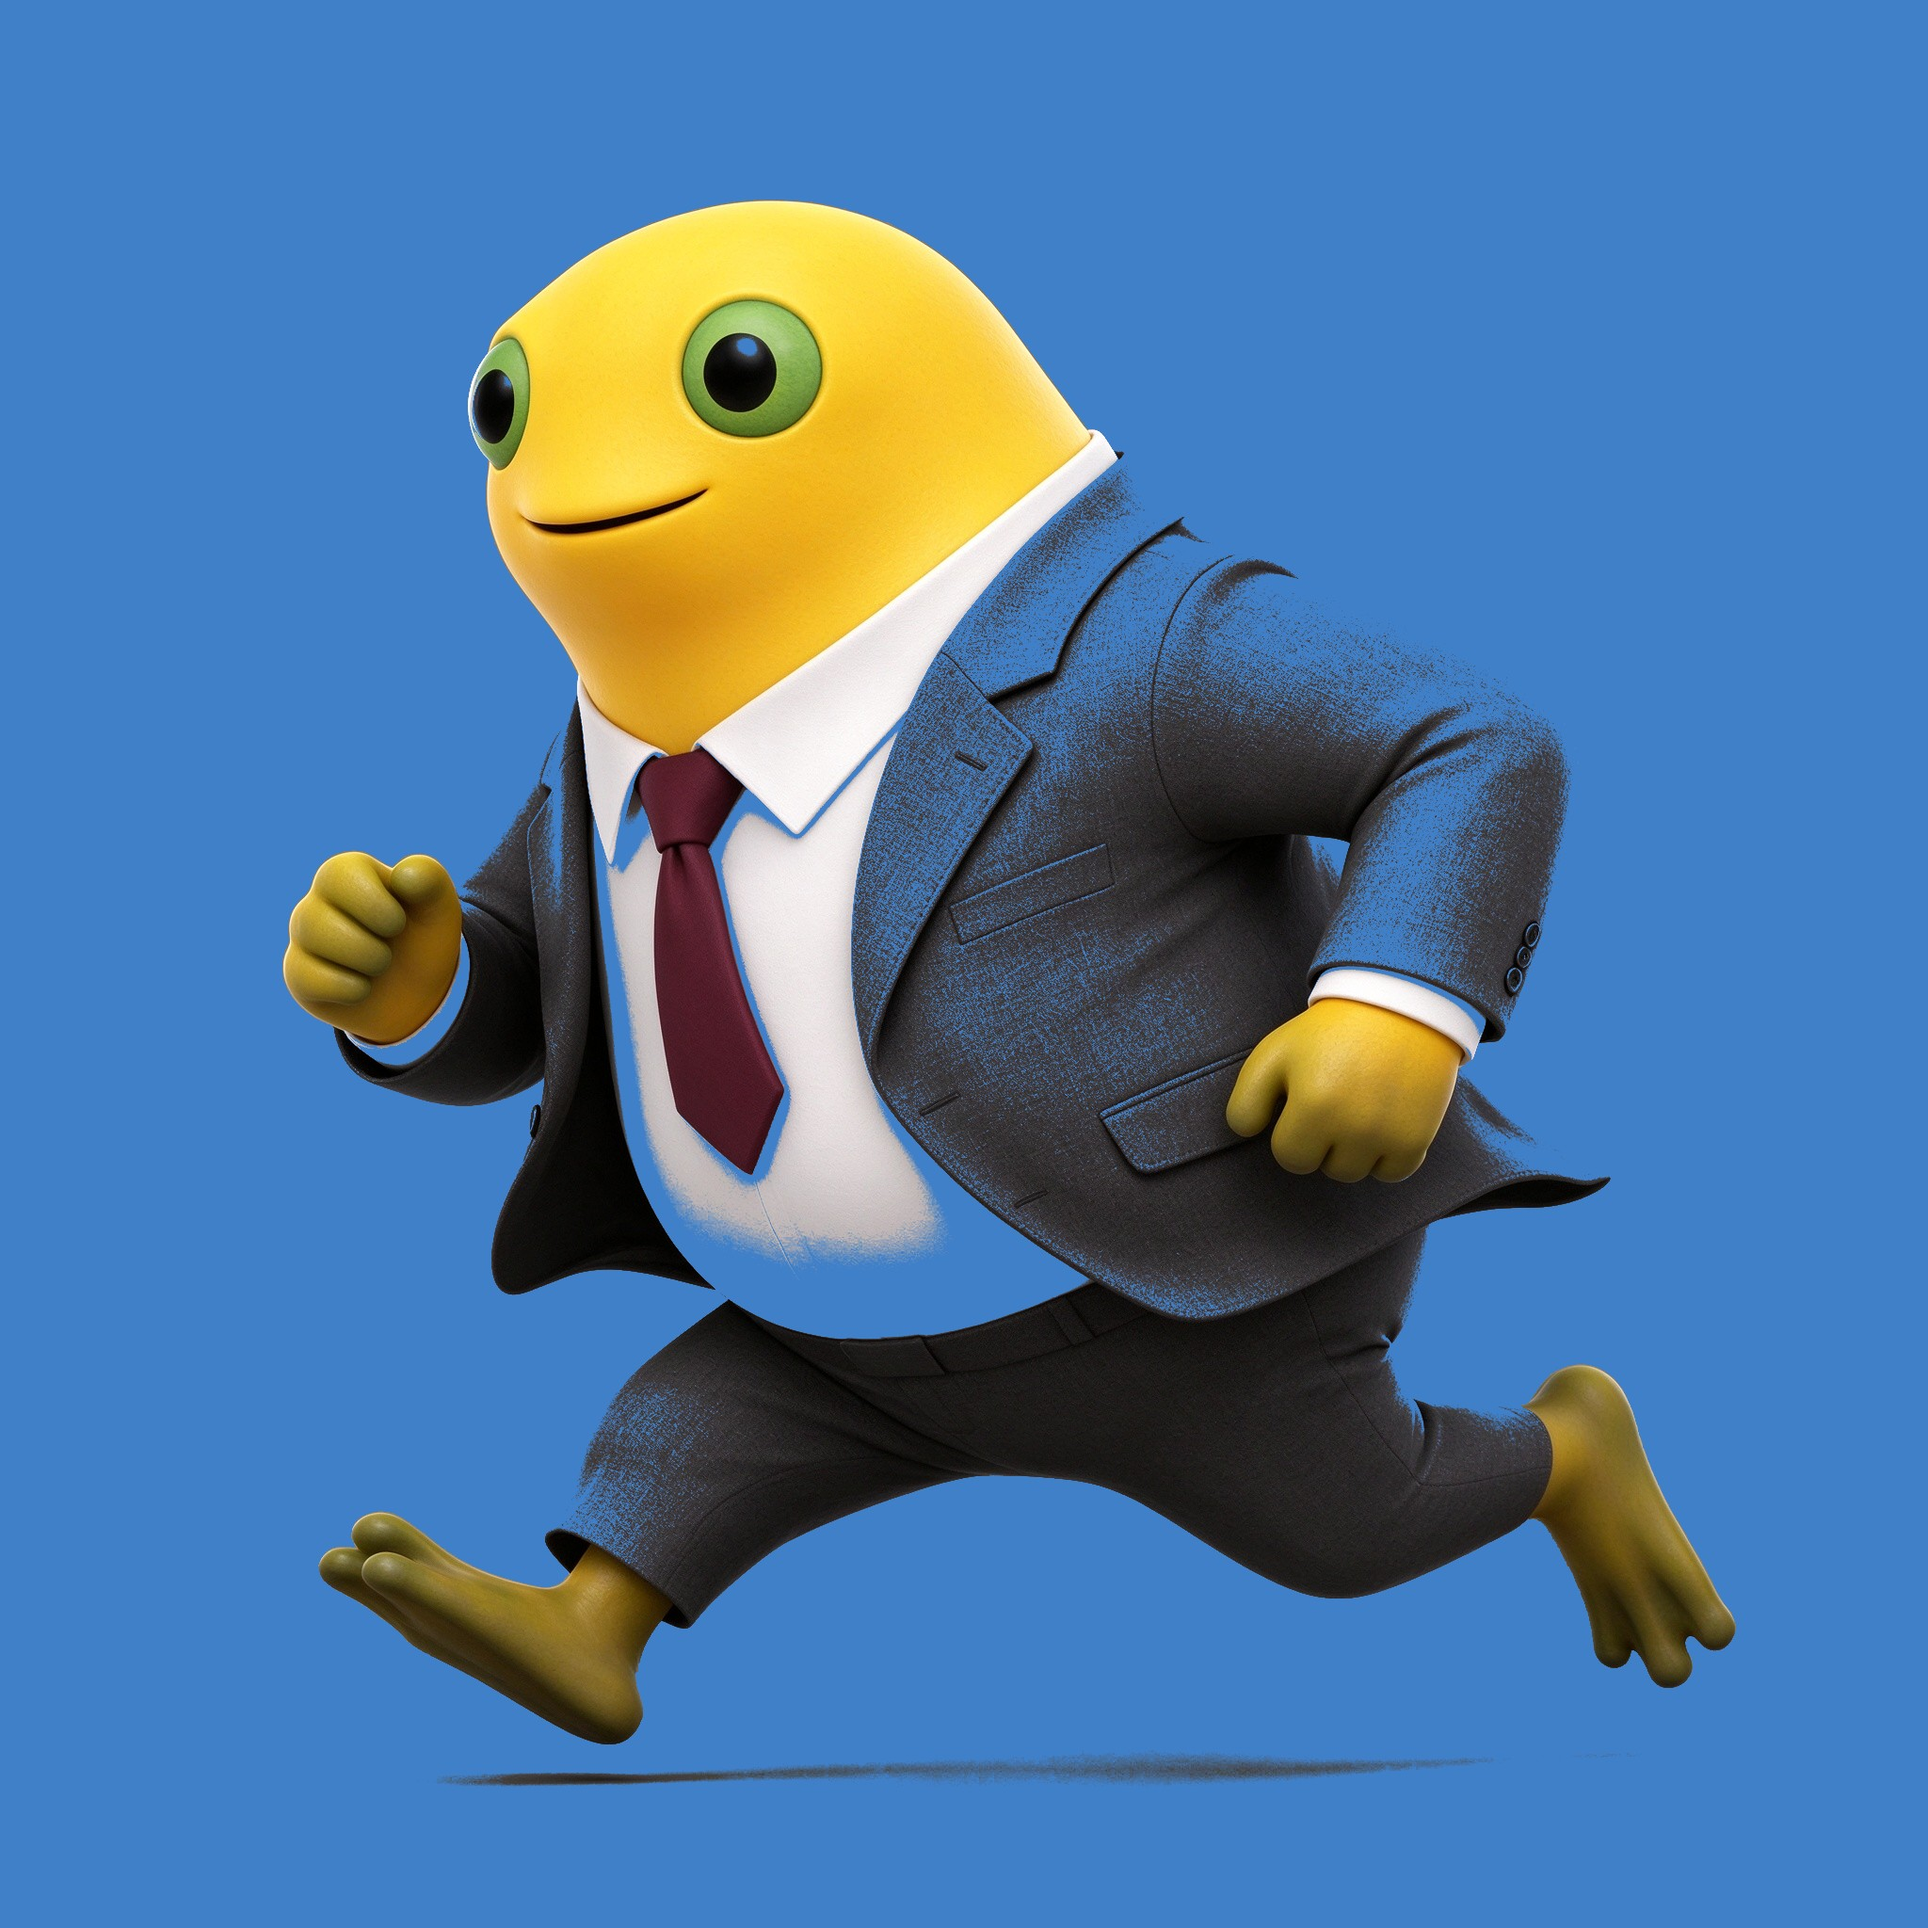
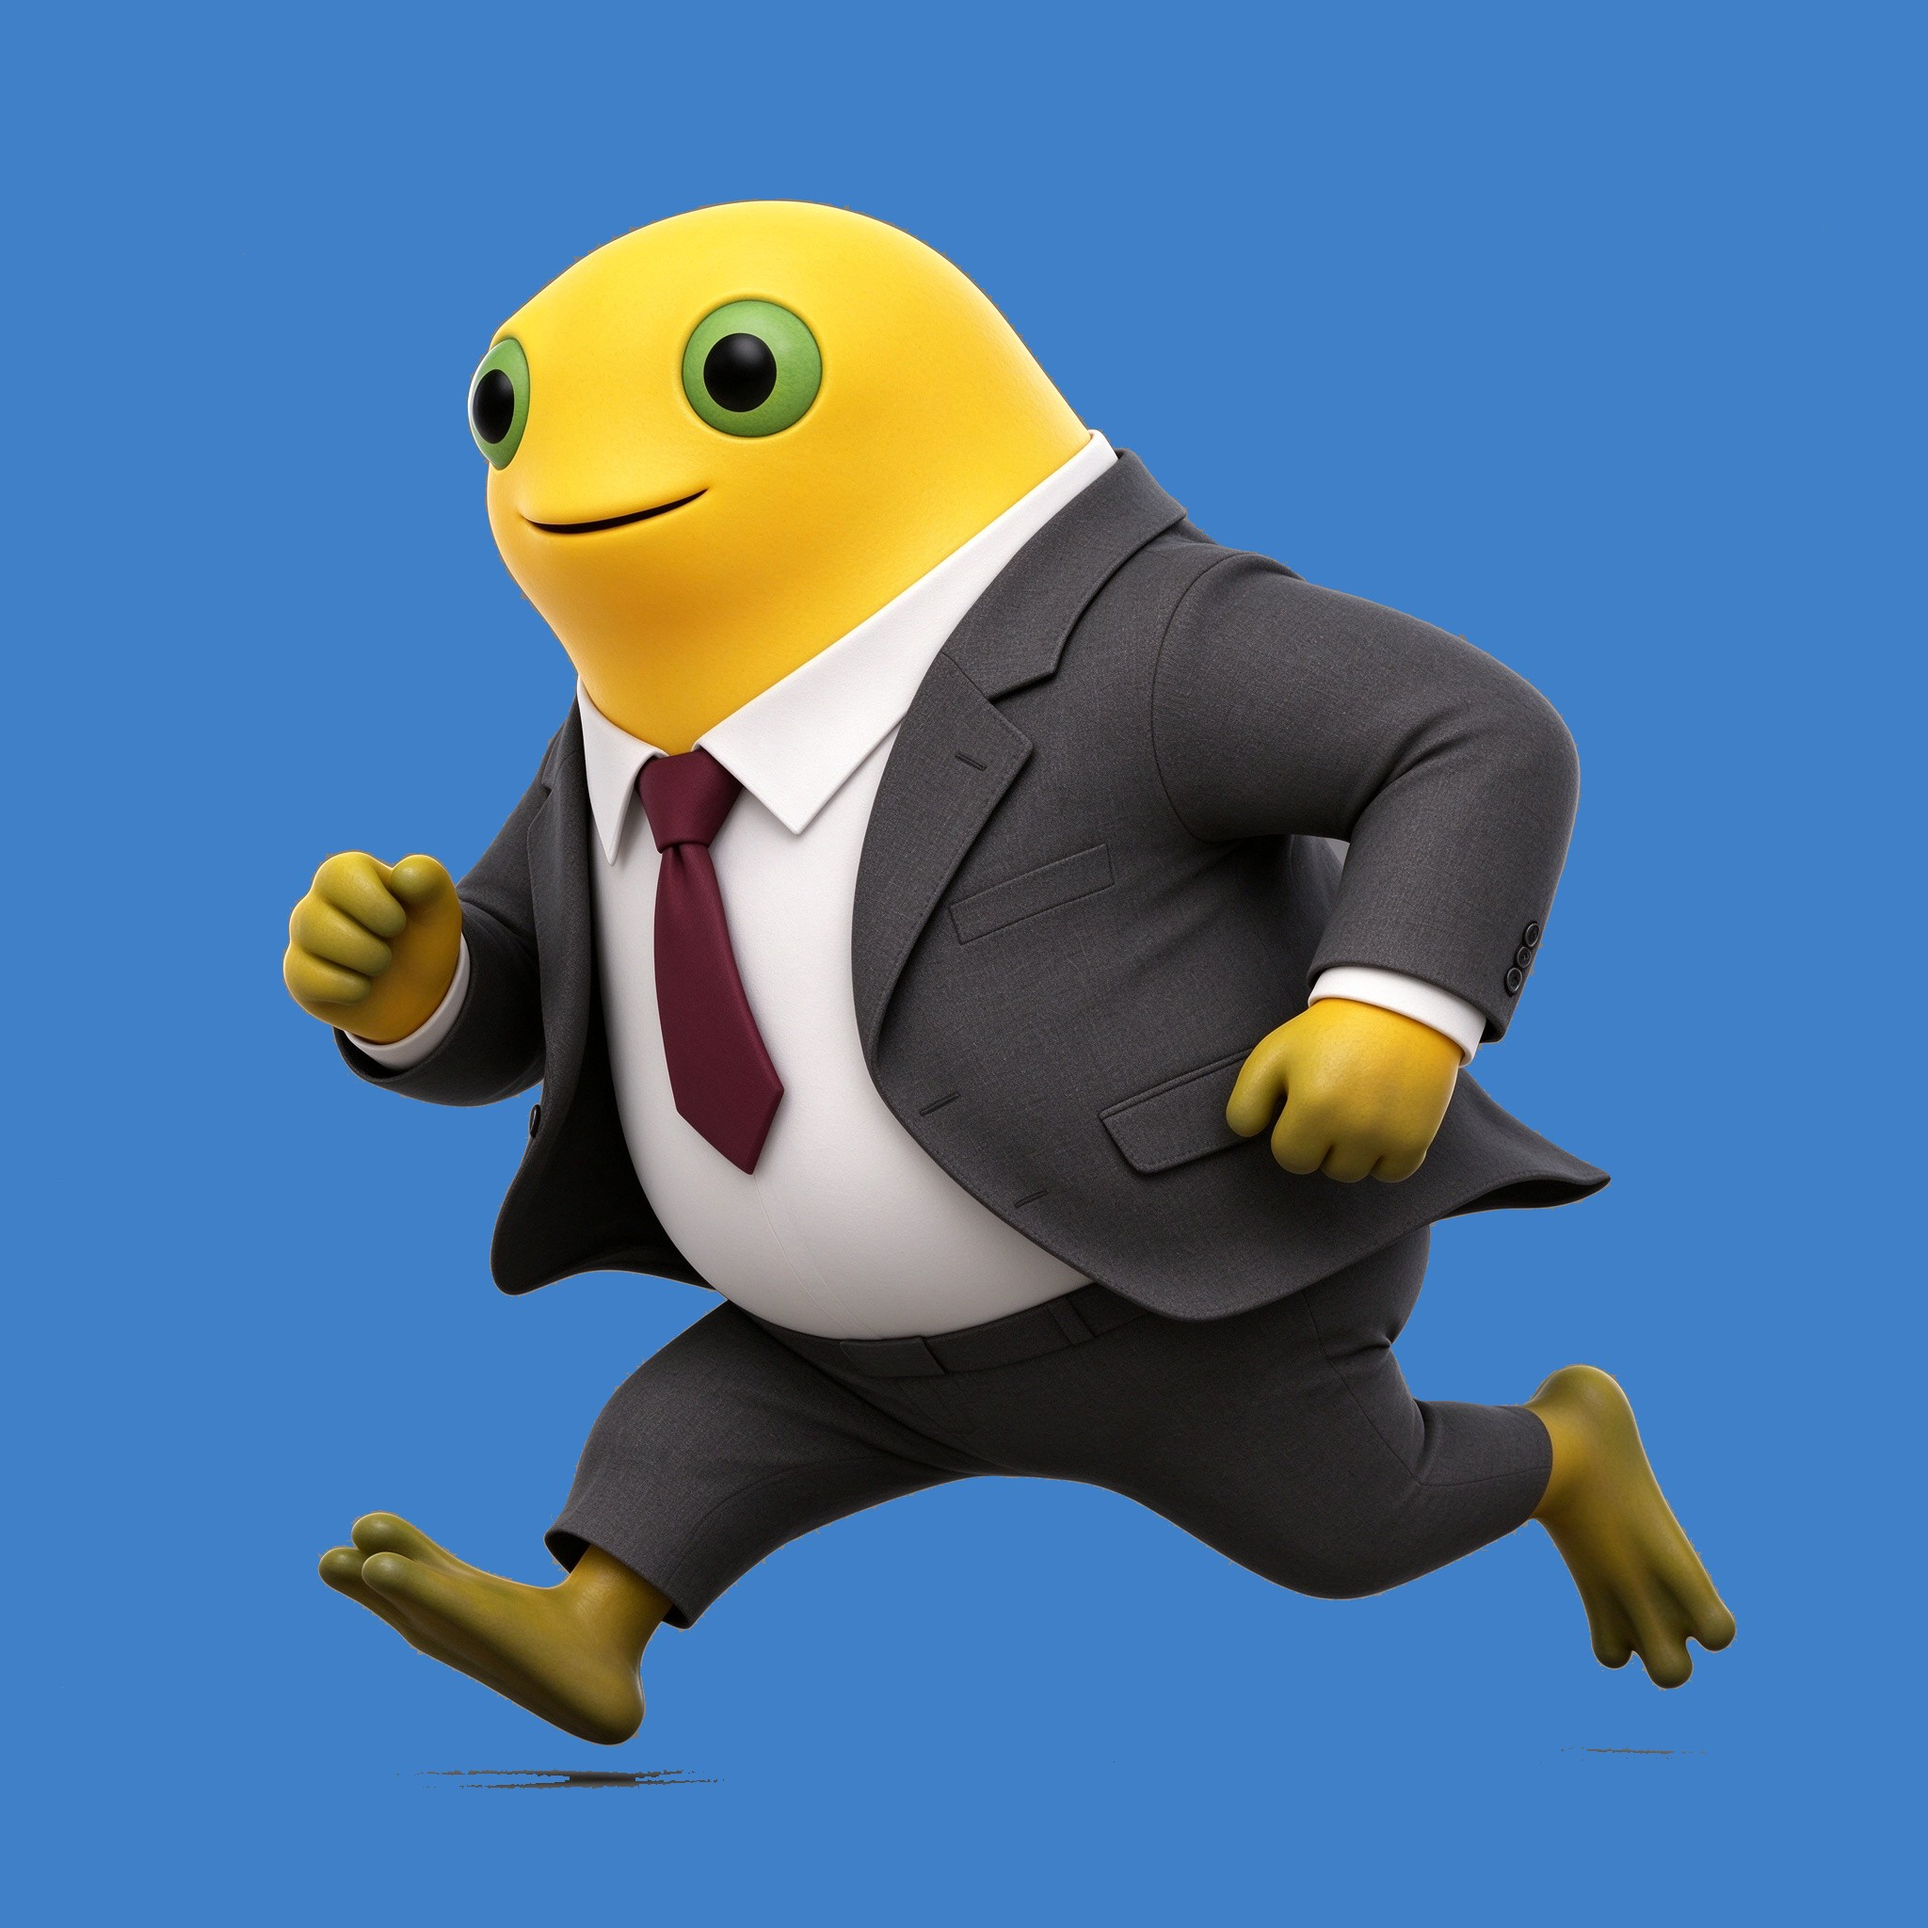
fix: 开机自启动时正常显示桌宠；重抠奶蛙贴图修复西装泛白噪点

diff --git a/pet/main.js b/pet/main.js
@@ -165,7 +165,8 @@ function shouldStartHidden() {
   if (process.platform === 'darwin') {
     return Boolean(app.getLoginItemSettings().wasOpenedAsHidden);
   }
-  return process.argv.includes(STARTUP_FLAG);
+  // Windows：开机自启动也要正常显示桌宠（用户反馈开机后桌面上看不到奶蛙）
+  return false;
 }
 
 function getWindowDisplay(targetWindow) {

diff --git a/.creative-design/frog-mascot/graykey3.py b/.creative-design/frog-mascot/graykey3.py
@@ -1,0 +1,105 @@
+"""中灰版 v3：平滑中性色 + 边缘连通 判定
+- 候选背景：三通道接近中性（差<25）且 3x3 邻域亮度极差<8（无纹理平滑区）
+- 从图像四边 flood fill，只有连通的候选才清除（阴影平滑渐变会被清，西装布纹有纹理不受影响）
+- 与背景相邻的非候选中性像素一并清除，边缘硬切 1-2px，避免灰边光晕
+"""
+from PIL import Image
+from collections import deque
+from pathlib import Path
+
+base = Path(r"C:\Users\19421\Doubao\chats\2026-11-03\new-chat\code-pet\pet\assets")
+src_dir = Path(r"C:\Users\19421\Doubao\chats\2026-11-03\new-chat\code-pet\.creative-design\frog-mascot\source")
+out = Path(r"C:\Users\19421\Doubao\chats\2026-11-03\new-chat\code-pet\.creative-design\frog-mascot")
+
+
+def smooth_gray_key(path: Path, diag: str = ""):
+    im = Image.open(path).convert("RGBA")
+    w, h = im.size
+    px = im.load()
+
+    # 预计算: 中性 / 平滑
+    neutral = [[False] * w for _ in range(h)]
+    smooth = [[False] * w for _ in range(h)]
+    for y in range(h):
+        for x in range(w):
+            r, g, b, a = px[x, y]
+            neutral[y][x] = abs(r - g) < 25 and abs(g - b) < 25 and abs(r - b) < 25
+
+    for y in range(h):
+        for x in range(w):
+            if not neutral[y][x]:
+                continue
+            lo, hi = 255, 0
+            found = False
+            for ny in (y - 1, y, y + 1):
+                for nx in (x - 1, x, x + 1):
+                    if 0 <= nx < w and 0 <= ny < h:
+                        L = max(px[nx, ny][:3])
+                        lo = min(lo, L)
+                        hi = max(hi, L)
+                        found = True
+            if found and hi - lo < 8:
+                smooth[y][x] = True
+
+    cand = [[neutral[y][x] and smooth[y][x] for x in range(w)] for y in range(h)]
+
+    bg = [[False] * w for _ in range(h)]
+    dq = deque()
+    for x in range(w):
+        for y in (0, h - 1):
+            if cand[y][x] and not bg[y][x]:
+                bg[y][x] = True
+                dq.append((x, y))
+    for y in range(h):
+        for x in (0, w - 1):
+            if cand[y][x] and not bg[y][x]:
+                bg[y][x] = True
+                dq.append((x, y))
+    while dq:
+        x, y = dq.popleft()
+        for nx in (x - 1, x, x + 1):
+            for ny in (y - 1, y, y + 1):
+                if 0 <= nx < w and 0 <= ny < h and cand[ny][nx] and not bg[ny][nx]:
+                    bg[ny][nx] = True
+                    dq.append((nx, ny))
+
+    # 与背景相邻的非候选中性像素（灰边光晕）一并清除
+    edge_clear = [[False] * w for _ in range(h)]
+    for y in range(h):
+        for x in range(w):
+            if bg[y][x] or not neutral[y][x]:
+                continue
+            for nx in (x - 1, x, x + 1):
+                for ny in (y - 1, y, y + 1):
+                    if 0 <= nx < w and 0 <= ny < h and bg[ny][nx]:
+                        edge_clear[y][x] = True
+                        break
+                if edge_clear[y][x]:
+                    break
+
+    cleared = 0
+    for y in range(h):
+        for x in range(w):
+            r, g, b, a = px[x, y]
+            if bg[y][x] or edge_clear[y][x]:
+                px[x, y] = (r, g, b, 0)
+                cleared += 1
+            elif cand[y][x]:
+                px[x, y] = (r, g, b, 255)
+
+    if diag:
+        print(diag, "清理背景+灰边:", cleared, "占比:", round(cleared / (w * h) * 100, 1), "%")
+    return im
+
+
+for src_name, dst in [("frog_idle_gray.png", "frog_idle.webp"),
+                      ("frog_running_gray.png", "frog_running.webp")]:
+    im = smooth_gray_key(src_dir / src_name, dst)
+    im.save(base / dst, "WEBP", lossless=True, quality=100)
+    alpha = im.getchannel("A")
+    opaque = sum(1 for a in list(alpha.getdata()) if a > 16)
+    print("  saved:", base / dst, "opaque%:", round(opaque / (im.size[0] * im.size[1]) * 100, 1))
+    canvas = Image.new("RGBA", im.size, (64, 128, 200, 255))
+    canvas.alpha_composite(im)
+    canvas.convert("RGB").save(out / (dst + ".preview.jpg"), quality=90)
+    print("  preview:", out / (dst + ".preview.jpg"))

diff --git a/.creative-design/frog-mascot/graykey2.py b/.creative-design/frog-mascot/graykey2.py
@@ -1,0 +1,91 @@
+"""中灰版 v2：加连通域约束的 RGB 分段色键
+- 背景候选：中性色且 |L-128|<45
+- 只有与图像边缘连通的候选取样才清理 → 西装内部孤立高光（亮度接近 128）保留不透明
+- 与背景相邻的过渡像素给半透明防锯齿，其余全保
+"""
+from PIL import Image
+from collections import deque
+from pathlib import Path
+
+base = Path(r"C:\Users\19421\Doubao\chats\2026-11-03\new-chat\code-pet\pet\assets")
+src_dir = Path(r"C:\Users\19421\Doubao\chats\2026-11-03\new-chat\code-pet\.creative-design\frog-mascot\source")
+out = Path(r"C:\Users\19421\Doubao\chats\2026-11-03\new-chat\code-pet\.creative-design\frog-mascot")
+
+
+def gray_key_connected(path: Path, diag: str = ""):
+    im = Image.open(path).convert("RGBA")
+    w, h = im.size
+    px = im.load()
+
+    neutral_map = [[False] * w for _ in range(h)]
+    cand_map = [[False] * w for _ in range(h)]
+    for y in range(h):
+        for x in range(w):
+            r, g, b, a = px[x, y]
+            L = max(r, g, b)
+            neutral = abs(r - g) < 25 and abs(g - b) < 25 and abs(r - b) < 25
+            neutral_map[y][x] = neutral
+            cand_map[y][x] = neutral and abs(L - 128) < 45
+
+    # 从四边 flood fill 连通候选（8 连通）
+    bg = [[False] * w for _ in range(h)]
+    dq = deque()
+    for x in range(w):
+        for y in (0, h - 1):
+            if cand_map[y][x] and not bg[y][x]:
+                bg[y][x] = True
+                dq.append((x, y))
+    for y in range(h):
+        for x in (0, w - 1):
+            if cand_map[y][x] and not bg[y][x]:
+                bg[y][x] = True
+                dq.append((x, y))
+    while dq:
+        x, y = dq.popleft()
+        for nx in (x - 1, x, x + 1):
+            for ny in (y - 1, y, y + 1):
+                if 0 <= nx < w and 0 <= ny < h and cand_map[ny][nx] and not bg[ny][nx]:
+                    bg[ny][nx] = True
+                    dq.append((nx, ny))
+
+    cleared = 0
+    for y in range(h):
+        for x in range(w):
+            r, g, b, a = px[x, y]
+            L = max(r, g, b)
+            if bg[y][x]:
+                px[x, y] = (r, g, b, 0)
+                cleared += 1
+            elif cand_map[y][x]:
+                # 角色内部孤立亮部（西装高光）：保留完全不透明
+                px[x, y] = (r, g, b, 255)
+            elif neutral_map[y][x] and 45 <= abs(L - 128) < 60:
+                # 仅当紧邻背景时才做边缘过渡，避免角色内部被削半透明
+                near_bg = False
+                for nx in (x - 1, x, x + 1):
+                    for ny in (y - 1, y, y + 1):
+                        if 0 <= nx < w and 0 <= ny < h and bg[ny][nx]:
+                            near_bg = True
+                            break
+                    if near_bg:
+                        break
+                if near_bg:
+                    alpha = int(255 * (abs(L - 128) - 45) / 15.0)
+                    px[x, y] = (r, g, b, max(0, min(255, alpha)))
+
+    if diag:
+        print(diag, "清理连通背景:", cleared, "占比:", round(cleared / (w * h) * 100, 1), "%")
+    return im
+
+
+for src_name, dst in [("frog_idle_gray.png", "frog_idle.webp"),
+                      ("frog_running_gray.png", "frog_running.webp")]:
+    im = gray_key_connected(src_dir / src_name, dst)
+    im.save(base / dst, "WEBP", lossless=True, quality=100)
+    alpha = im.getchannel("A")
+    opaque = sum(1 for a in list(alpha.getdata()) if a > 16)
+    print("  saved:", base / dst, "opaque%:", round(opaque / (im.size[0] * im.size[1]) * 100, 1))
+    canvas = Image.new("RGBA", im.size, (64, 128, 200, 255))
+    canvas.alpha_composite(im)
+    canvas.convert("RGB").save(out / (dst + ".preview.jpg"), quality=90)
+    print("  preview:", out / (dst + ".preview.jpg"))
